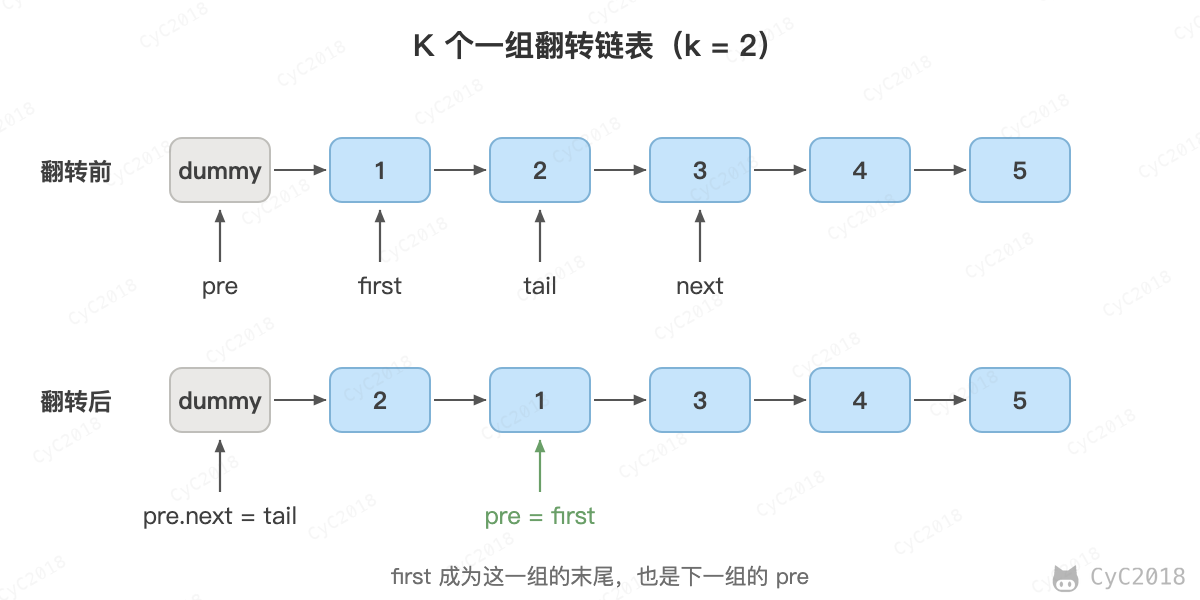
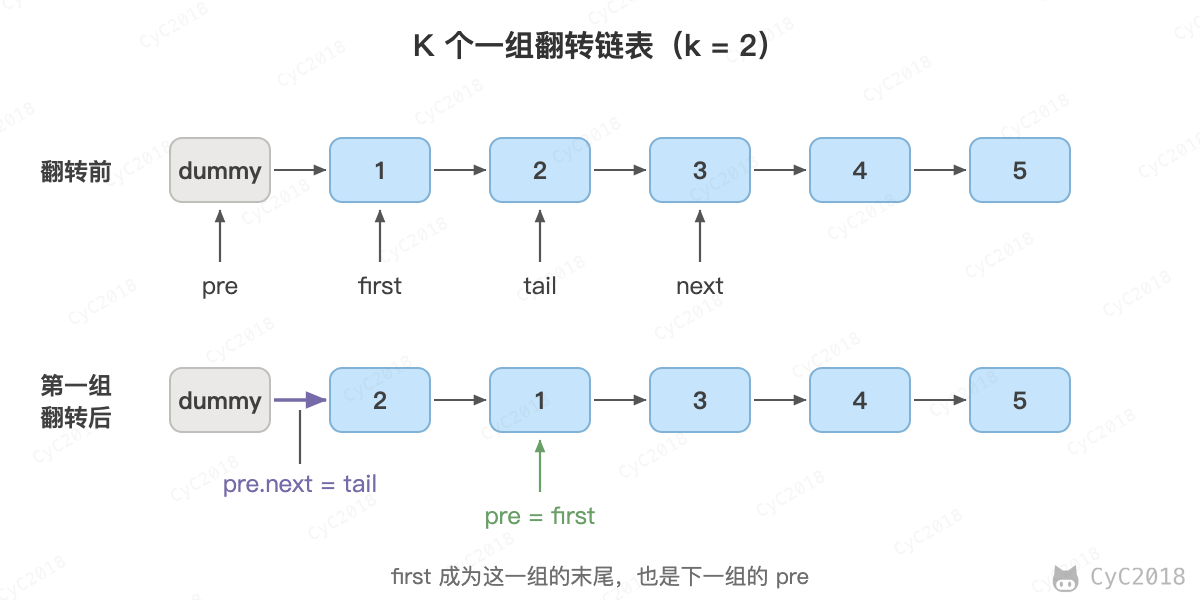
Update Leetcode 题解 - 链表.md
重新绘制 K 个一组翻转的配图；补充相交链表、反转链表、两两交换与合并等题目的思路解析与复杂度说明；补充参考资料小节。

Changed region(s): [[0.1233, 0.78, 0.3083, 0.87], [0.0308, 0.6, 0.0925, 0.72], [0.2158, 0.66, 0.2775, 0.69]]

diff --git a/notes/Leetcode 题解 - 链表.md b/notes/Leetcode 题解 - 链表.md
@@ -15,6 +15,7 @@
     * [12. 重排链表](#12-重排链表)
     * [13. 合并 K 个有序链表](#13-合并-k-个有序链表)
     * [14. 链表排序](#14-链表排序)
+    * [参考资料](#参考资料)
 <!-- GFM-TOC -->
 
 
@@ -50,11 +51,13 @@ B:    b1 → b2 → b3        e1 → e2
 
 要求时间复杂度为 O(N)，空间复杂度为 O(1)。如果不存在交点则返回 null。
 
-设 A 的长度为 a + c，B 的长度为 b + c，其中 c 为尾部公共部分长度，可知 a + c + b = b + c + a。
+两个指针同时出发，难点在于 A、B 交点前的长度不同，指针不会同时到达交点。解决方法是让每个指针走完自己的链表后，接着从另一个链表的头部走：
 
-当访问 A 链表的指针访问到链表尾部时，令它从链表 B 的头部开始访问链表 B；同样地，当访问 B 链表的指针访问到链表尾部时，令它从链表 A 的头部开始访问链表 A。这样就能控制访问 A 和 B 两个链表的指针能同时访问到交点。
+设 A 的长度为 a + c，B 的长度为 b + c，其中 c 为尾部公共部分长度。指针 l1 走完 A 再走 B 的前 b 个节点，指针 l2 走完 B 再走 A 的前 a 个节点，两者走的步数都是 a + c + b，因此会同时到达交点。以上面的例子 a = 2、b = 3、c = 3 为例，两个指针都在第 9 步到达 c1（null 也算一步）：
 
-如果不存在交点，那么 a + b = b + a，以下实现代码中 l1 和 l2 会同时为 null，从而退出循环。
+<div align="center"> <img src="pics/offer-intersect-list.png" width="640px"/> </div><br>
+
+如果不存在交点，两个指针都走完 A、B 两个链表后同时为 null，从而退出循环。
 
 ```java
 public ListNode getIntersectionNode(ListNode headA, ListNode headB) {
@@ -67,7 +70,7 @@ public ListNode getIntersectionNode(ListNode headA, ListNode headB) {
 }
 ```
 
-如果只是判断是否存在交点，那么就是另一个问题，即 编程之美 3.6 的问题。有两种解法：
+如果只是判断是否存在交点，那么就是另一个问题，即《编程之美》3.6 的问题。有两种解法：
 
 - 把第一个链表的结尾连接到第二个链表的开头，看第二个链表是否存在环；
 - 或者直接比较两个链表的最后一个节点是否相同。
@@ -78,7 +81,7 @@ public ListNode getIntersectionNode(ListNode headA, ListNode headB) {
 
 [Leetcode](https://leetcode.com/problems/reverse-linked-list/description/) / [力扣](https://leetcode-cn.com/problems/reverse-linked-list/description/)
 
-递归
+递归：先把 head.next 之后的部分反转，返回新的头节点；此时 next 是反转后那一段的尾节点，把 head 接在 next 后面，再断开 head 原来的 next 指针。例如 1→2→3，反转 2→3 得到 3→2 后，令 2.next = 1、1.next = null，得到 3→2→1。
 
 ```java
 public ListNode reverseList(ListNode head) {
@@ -93,7 +96,7 @@ public ListNode reverseList(ListNode head) {
 }
 ```
 
-头插法
+头插法（迭代）：从头到尾取下每个节点，插到虚拟头节点 newHead 的后面，先取下的节点会被后取下的节点挤到后面，因此顺序反转。newHead.next 相当于常见写法中指向已反转部分的 pre 指针。每一步要先用 next 记住 head.next 再修改 head.next，否则后面的链表就丢了。迭代只需要 O(1) 的额外空间，递归需要 O(N) 的栈空间，以 1 -\> 2 -\> 3 为例的逐步过程见[剑指 Offer 24](24.%20反转链表.md#迭代)。
 
 ```java
 public ListNode reverseList(ListNode head) {
@@ -113,6 +116,8 @@ public ListNode reverseList(ListNode head) {
 21\. Merge Two Sorted Lists (Easy)
 
 [Leetcode](https://leetcode.com/problems/merge-two-sorted-lists/description/) / [力扣](https://leetcode-cn.com/problems/merge-two-sorted-lists/description/)
+
+比较两个链表的头节点，较小的那个作为结果的头节点，它的 next 指向剩余部分归并的结果。递归最坏需要 O(m + n) 的栈空间（m、n 为两个链表的长度），链表很长时可以改用迭代：用虚拟头节点 dummy 和尾指针 tail，每次把较小的节点接到 tail 后面，代码见[链表排序](#14-链表排序)中的 merge()。
 
 ```java
 public ListNode mergeTwoLists(ListNode l1, ListNode l2) {
@@ -139,6 +144,8 @@ Given 1->1->2, return 1->2.
 Given 1->1->2->3->3, return 1->2->3.
 ```
 
+先递归处理 head.next 之后的部分，返回时如果 head 与后继节点的值相同，就丢掉 head、返回后继节点。
+
 ```java
 public ListNode deleteDuplicates(ListNode head) {
     if (head == null || head.next == null) return head;
@@ -157,6 +164,8 @@ public ListNode deleteDuplicates(ListNode head) {
 Given linked list: 1->2->3->4->5, and n = 2.
 After removing the second node from the end, the linked list becomes 1->2->3->5.
 ```
+
+fast 先走 n 步，然后 fast 和 slow 一起走，fast 到达最后一个节点时，slow 正好停在倒数第 n 个节点的前一个节点上。例如 n = 2 时 fast 停在 5，slow 停在 3，令 3.next = 5 即可。如果 fast 先走 n 步后就为 null，说明要删除的是头节点。
 
 ```java
 public ListNode removeNthFromEnd(ListNode head, int n) {
@@ -185,7 +194,9 @@ public ListNode removeNthFromEnd(ListNode head, int n) {
 Given 1->2->3->4, you should return the list as 2->1->4->3.
 ```
 
-题目要求：不能修改结点的 val 值，O(1) 空间复杂度。
+题目要求：不能修改节点的 val 值，只能改变节点之间的指针。
+
+pre 指向待交换的两个节点 l1、l2 的前一个节点，依次令 l1 指向 l2 的后继、l2 指向 l1、pre 指向 l2，交换后 l1 在后面，作为下一对的 pre。
 
 ```java
 public ListNode swapPairs(ListNode head) {
@@ -216,7 +227,9 @@ Input: (7 -> 2 -> 4 -> 3) + (5 -> 6 -> 4)
 Output: 7 -> 8 -> 0 -> 7
 ```
 
-题目要求：不能修改原始链表。
+进阶要求：不能反转输入的链表。
+
+链表的高位在前，而加法要从低位开始算。把两个链表的值分别压入栈中，出栈的顺序就是从低位到高位；每一位的结果用头插法插到结果链表的前面。
 
 ```java
 public ListNode addTwoNumbers(ListNode l1, ListNode l2) {
@@ -252,9 +265,9 @@ private Stack<Integer> buildStack(ListNode l) {
 
 [Leetcode](https://leetcode.com/problems/palindrome-linked-list/description/) / [力扣](https://leetcode-cn.com/problems/palindrome-linked-list/description/)
 
-题目要求：以 O(1) 的空间复杂度来求解。
+进阶要求：以 O(1) 的空间复杂度来求解。
 
-切成两半，把后半段反转，然后比较两半是否相等。
+用快慢指针找到中点后切成两半，把后半段反转，然后比较两半是否相等。节点数为奇数时，中间的节点分到后半段，比较到前半段结束为止。这种做法会断开并改动输入的链表，需要保持原状时，比较后把后半段再反转一次，接回前半段的末尾。
 
 ```java
 public boolean isPalindrome(ListNode head) {
@@ -299,13 +312,13 @@ private boolean isEqual(ListNode l1, ListNode l2) {
 
 ## 9. 分隔链表
 
-725\. Split Linked List in Parts(Medium)
+725\. Split Linked List in Parts (Medium)
 
 [Leetcode](https://leetcode.com/problems/split-linked-list-in-parts/description/) / [力扣](https://leetcode-cn.com/problems/split-linked-list-in-parts/description/)
 
 ```text
 Input:
-root = [1, 2, 3, 4, 5, 6, 7, 8, 9, 10], k = 3
+head = [1, 2, 3, 4, 5, 6, 7, 8, 9, 10], k = 3
 Output: [[1, 2, 3, 4], [5, 6, 7], [8, 9, 10]]
 Explanation:
 The input has been split into consecutive parts with size difference at most 1, and earlier parts are a larger size than the later parts.
@@ -313,10 +326,12 @@ The input has been split into consecutive parts with size difference at most 1, 
 
 题目描述：把链表分隔成 k 部分，每部分的长度都应该尽可能相同，排在前面的长度应该大于等于后面的。
 
+设链表长度为 N，每部分至少 N / k 个节点，前 N % k 部分各多 1 个。例如 N = 10、k = 3 时，三部分的长度为 4、3、3。
+
 ```java
-public ListNode[] splitListToParts(ListNode root, int k) {
+public ListNode[] splitListToParts(ListNode head, int k) {
     int N = 0;
-    ListNode cur = root;
+    ListNode cur = head;
     while (cur != null) {
         N++;
         cur = cur.next;
@@ -324,7 +339,7 @@ public ListNode[] splitListToParts(ListNode root, int k) {
     int mod = N % k;
     int size = N / k;
     ListNode[] ret = new ListNode[k];
-    cur = root;
+    cur = head;
     for (int i = 0; cur != null && i < k; i++) {
         ret[i] = cur;
         int curSize = size + (mod-- > 0 ? 1 : 0);
@@ -350,6 +365,8 @@ Example:
 Given 1->2->3->4->5->NULL,
 return 1->3->5->2->4->NULL.
 ```
+
+odd 和 even 分别串起奇数位置和偶数位置的节点，交替向后跳一个节点，最后把偶数链表接在奇数链表的后面。
 
 ```java
 public ListNode oddEvenList(ListNode head) {
@@ -379,9 +396,9 @@ Input: 1->2->3->4->5, k = 2
 Output: 2->1->4->3->5
 ```
 
-题目描述：每 k 个节点一组进行翻转，最后不足 k 个的节点保持原有顺序。
+题目描述：每 k 个节点一组进行翻转，最后不足 k 个的节点保持原有顺序。如果要求不足 k 个也翻转，走不到 k 步时把剩下的部分同样翻转即可。
 
-使用一个虚拟头节点 dummy，pre 指向下一组的前一个节点。先从 pre 向后走 k 步找到这一组的尾节点 tail，走不到说明剩余节点不足 k 个。然后把 pre.next 到 tail 这一段原地翻转，再把它接回原链表，最后 pre 移到这一组翻转后的末尾。
+使用一个虚拟头节点 dummy，pre 指向下一组的前一个节点。先从 pre 向后走 k 步找到这一组的尾节点 tail，走不到说明剩余节点不足 k 个。然后把 pre.next 到 tail 这一段原地翻转，再把它接回原链表，最后 pre 移到这一组翻转后的末尾。翻转时 prev 的初始值是下一组的头节点 next 而不是 null，这样翻转完之后这一组原来的头节点 first 已经接在下一组前面，只需要再令 pre.next = tail。
 
 <div align="center"> <img src="pics/reverse-k-group.png" width="600px"/> </div><br>
 
@@ -470,7 +487,7 @@ private ListNode reverse(ListNode head) {
 
 用小顶堆保存每个链表当前的头节点，每次取出值最小的节点接到结果链表后面，再把它的下一个节点放入堆中。设一共有 N 个节点，每个节点进出堆一次，时间复杂度为 O(NlogK)。
 
-也可以像归并排序那样两两合并，时间复杂度同样是 O(NlogK)。
+也可以像归并排序那样两两合并：第一轮把 K 个链表合并成 K / 2 个，第二轮合并成 K / 4 个，一共 logK 轮，每轮处理 N 个节点，时间复杂度同样是 O(NlogK)。需要注意的是，如果依次把每个链表合并到同一个结果链表上，前面的节点会被反复扫描，时间复杂度为 O(NK)。
 
 ```java
 public ListNode mergeKLists(ListNode[] lists) {
@@ -501,7 +518,7 @@ public ListNode mergeKLists(ListNode[] lists) {
 
 题目描述：在 O(NlogN) 时间复杂度内对链表进行排序。
 
-链表不能随机访问，适合用归并排序：用快慢指针找到中点断开，两半分别排序后，用第 3 题的方法归并。递归需要 O(logN) 的栈空间。
+链表不能随机访问，适合用归并排序：用快慢指针找到中点断开，两半分别排序后，用[归并两个有序的链表](#3-归并两个有序的链表)的方法归并。递归需要 O(logN) 的栈空间。
 
 ```java
 public ListNode sortList(ListNode head) {
@@ -534,3 +551,8 @@ private ListNode merge(ListNode l1, ListNode l2) {
     return dummy.next;
 }
 ```
+
+## 参考资料
+
+- [LeetCode 题库](https://leetcode.com/problemset/)
+- 《编程之美》小组. 编程之美 [M]. 电子工业出版社, 2008.
